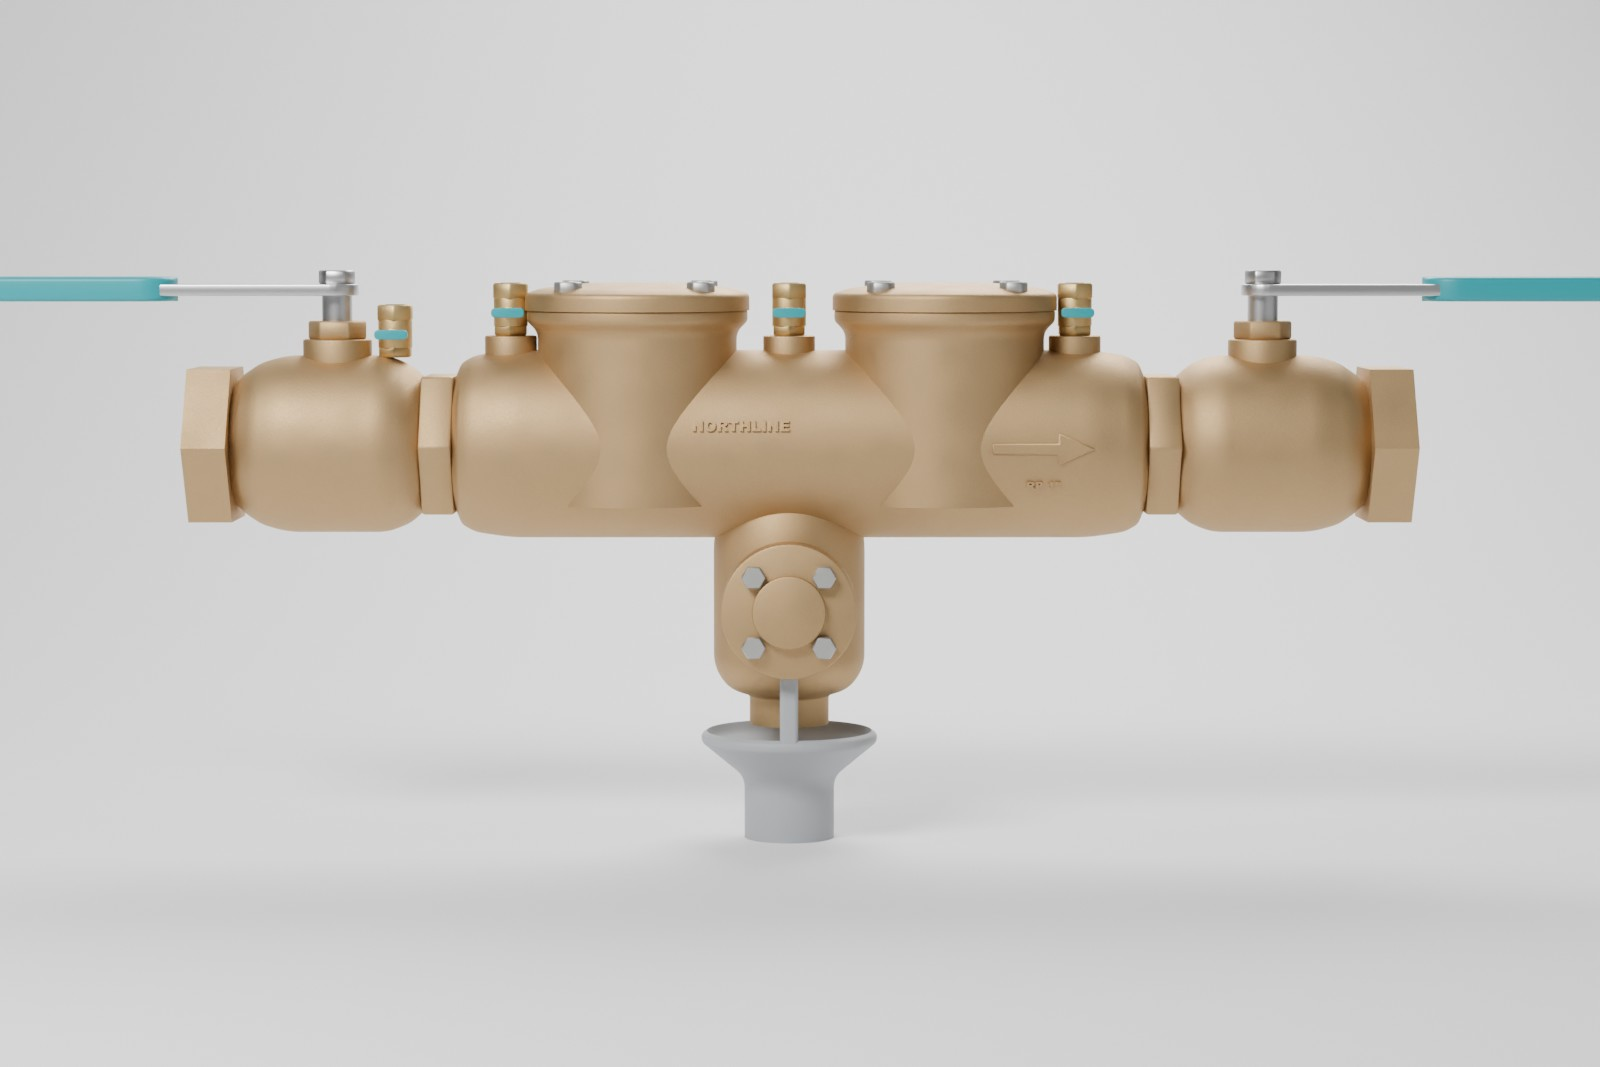
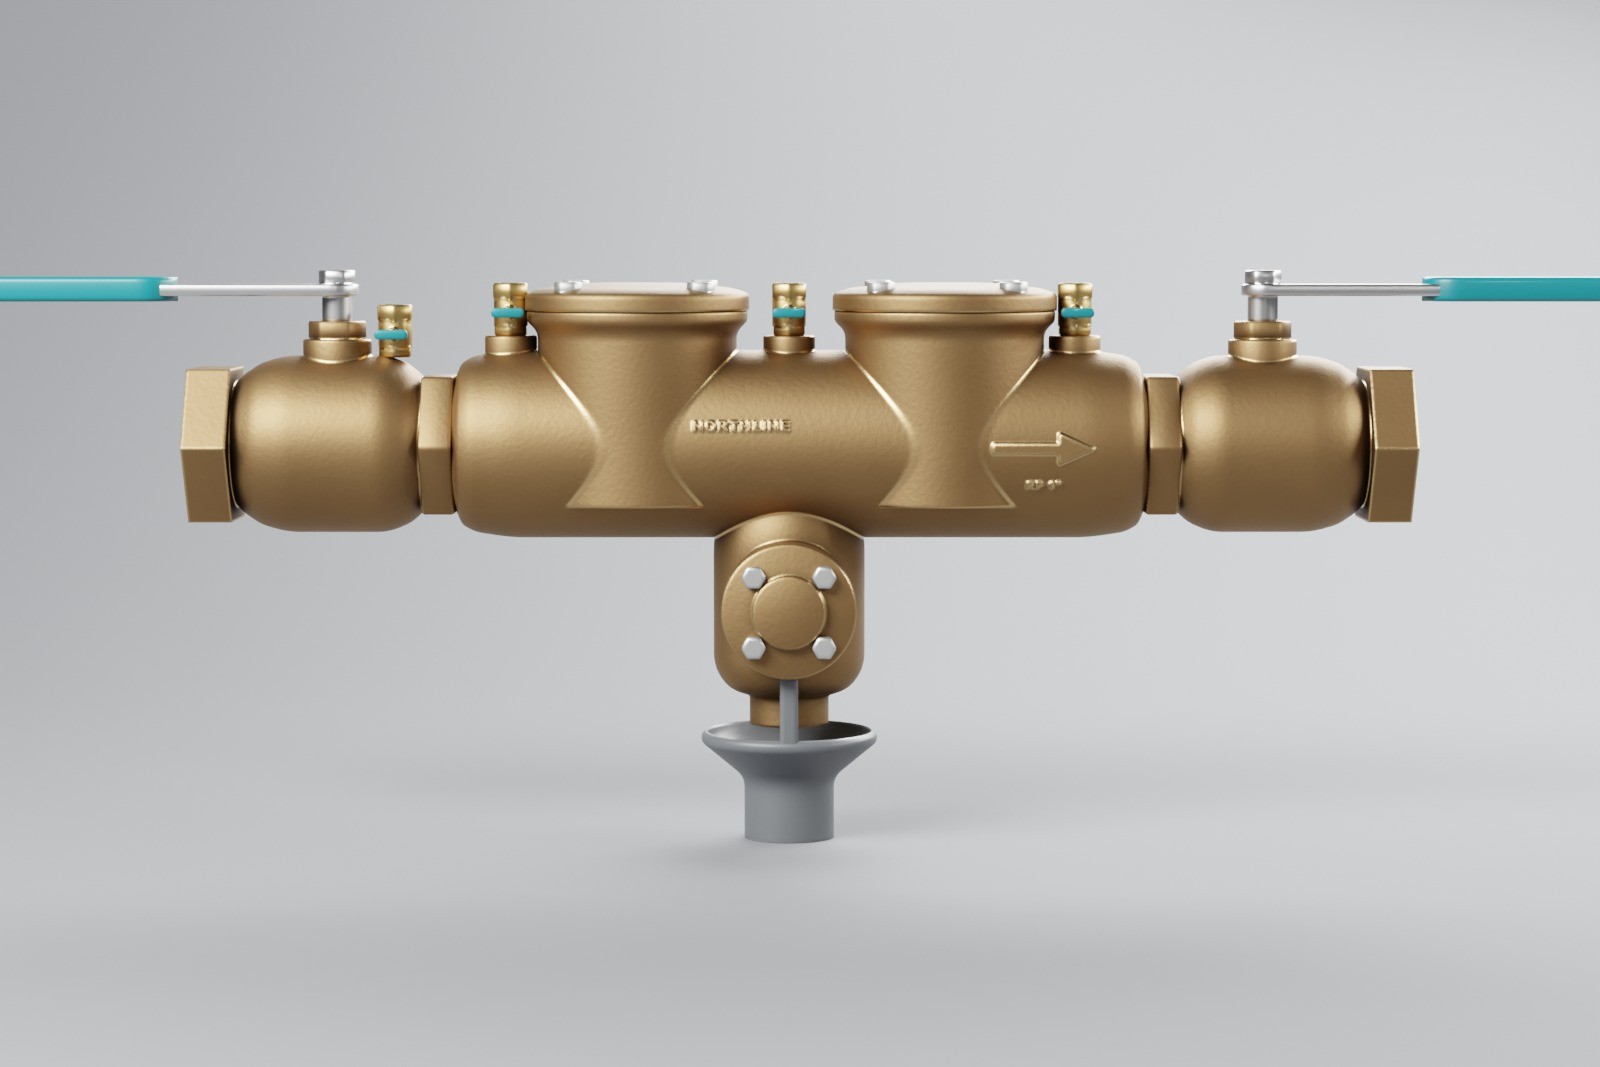
Watts + Northline: photoreal render pass (layered cast bronze, enamel, bead-blast steel, studio HDRI lighting); cache-bust render URLs

Changed region(s): [[0.0, 0.0, 1.0, 0.8041]]

diff --git a/northline-rpz.html b/northline-rpz.html
@@ -786,9 +786,9 @@ $("resetBtn").onclick=()=>{ applyTabState(); };
 
 /* ---------------- renders + Revit overlay ---------------- */
 const RENDERS=[["hero","Hero, three-quarter"],["front","Front elevation"],["top","Top three-quarter"],["detail","Relief valve and air gap"],["service","Service view, checks and relief removed"]];
-$("gallery").innerHTML=RENDERS.map(([k,c],i)=>`<figure data-i="${i}"><img src="assets/northline/render_${k}.jpg" alt="${c}" loading="lazy"><figcaption>${c}</figcaption></figure>`).join("");
-$("thumbs").innerHTML=RENDERS.map(([k,c],i)=>`<img data-i="${i}" src="assets/northline/render_${k}.jpg" alt="${c}">`).join("");
-function showRender(i){ $("renderImg").src=`assets/northline/render_${RENDERS[i][0]}.jpg`; $("thumbs").querySelectorAll("img").forEach(t=>t.classList.toggle("on",+t.dataset.i===i)); }
+$("gallery").innerHTML=RENDERS.map(([k,c],i)=>`<figure data-i="${i}"><img src="assets/northline/render_${k}.jpg?v=2" alt="${c}" loading="lazy"><figcaption>${c}</figcaption></figure>`).join("");
+$("thumbs").innerHTML=RENDERS.map(([k,c],i)=>`<img data-i="${i}" src="assets/northline/render_${k}.jpg?v=2" alt="${c}">`).join("");
+function showRender(i){ $("renderImg").src=`assets/northline/render_${RENDERS[i][0]}.jpg?v=2`; $("thumbs").querySelectorAll("img").forEach(t=>t.classList.toggle("on",+t.dataset.i===i)); }
 $("thumbs").addEventListener("click",e=>{ const t=e.target.closest("img"); if(t) showRender(+t.dataset.i); });
 $("gallery").addEventListener("click",e=>{ const f=e.target.closest("figure"); if(!f) return; setTab("product"); setMode("renders"); showRender(+f.dataset.i); window.scrollTo({top:0,behavior:"smooth"}); });
 function setMode(m){

diff --git a/watts.html b/watts.html
@@ -781,9 +781,9 @@ $("resetBtn").onclick=()=>{ applyTabState(); };
 
 /* ---------------- renders + Revit overlay ---------------- */
 const RENDERS=[["hero","Hero, three-quarter"],["front","Front elevation"],["top","Top three-quarter"],["detail","Gear operator detail"],["service","Service view, checks removed"]];
-$("gallery").innerHTML=RENDERS.map(([k,c],i)=>`<figure data-i="${i}"><img src="assets/watts/render_${k}.jpg" alt="${c}" loading="lazy"><figcaption>${c}</figcaption></figure>`).join("");
-$("thumbs").innerHTML=RENDERS.map(([k,c],i)=>`<img data-i="${i}" src="assets/watts/render_${k}.jpg" alt="${c}">`).join("");
-function showRender(i){ $("renderImg").src=`assets/watts/render_${RENDERS[i][0]}.jpg`; $("thumbs").querySelectorAll("img").forEach(t=>t.classList.toggle("on",+t.dataset.i===i)); }
+$("gallery").innerHTML=RENDERS.map(([k,c],i)=>`<figure data-i="${i}"><img src="assets/watts/render_${k}.jpg?v=2" alt="${c}" loading="lazy"><figcaption>${c}</figcaption></figure>`).join("");
+$("thumbs").innerHTML=RENDERS.map(([k,c],i)=>`<img data-i="${i}" src="assets/watts/render_${k}.jpg?v=2" alt="${c}">`).join("");
+function showRender(i){ $("renderImg").src=`assets/watts/render_${RENDERS[i][0]}.jpg?v=2`; $("thumbs").querySelectorAll("img").forEach(t=>t.classList.toggle("on",+t.dataset.i===i)); }
 $("thumbs").addEventListener("click",e=>{ const t=e.target.closest("img"); if(t) showRender(+t.dataset.i); });
 $("gallery").addEventListener("click",e=>{ const f=e.target.closest("figure"); if(!f) return; setTab("product"); setMode("renders"); showRender(+f.dataset.i); window.scrollTo({top:0,behavior:"smooth"}); });
 function setMode(m){
